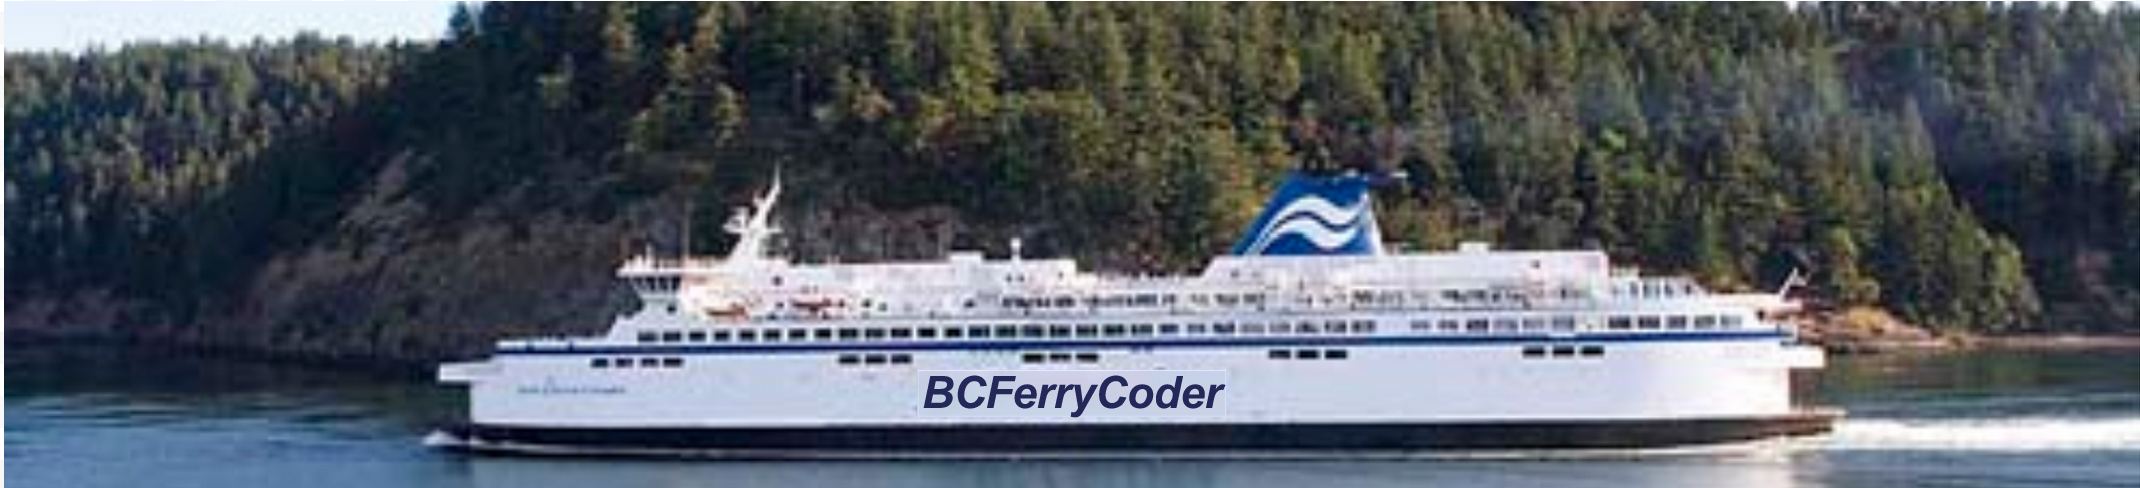
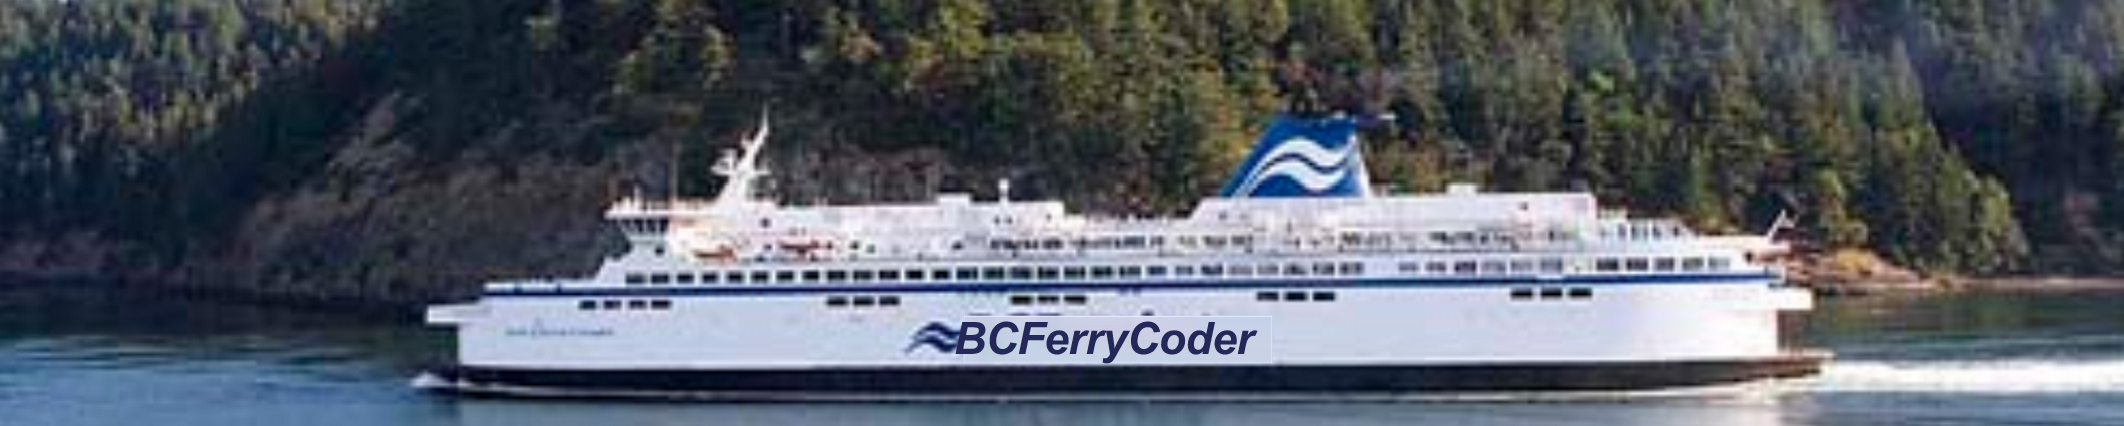
add entries, fix up header

diff --git a/_layouts/default.html b/_layouts/default.html
@@ -75,26 +75,17 @@ href="images/apple-touch-icon-114x114.png">
       <li><a href="/pages.html">Music</a></li>
       <li><a href="/tags.html"></a></li>
       <li><a href="/tags.html"></a></li>
-<li><img src="/assets/images/smallferrycoder.png" width="185"></li>
+<li style="line-height:5px;"><img style="padding-top:5px;margin-bottom:0px;padding-bottom:0px;" src="/assets/images/smallferrycoderblue.png" width="185"></li>
           </ul>
         </div>
       </div>
     </div>
 
-<div style="float:left;width:116px;height:780px;background-color:gray;" width="300" height="300" class="box">
-<span class="imagebutton"><img width="70" src="/assets/images/playbutton.png"></span>
-<span class="imagebutton"><img width="70" src="/assets/images/lightning.png"></span>
-</div>
-
-    <div class="container">
-
-      <div class="content">
-
-
-
-<div class="box" style="background-color:black;color:white;">
-Recent very Cool:
-</div>
+<div class="container">
+  <div class="content">
+    <div style="margin-top:-21px;" class="box" style="background-color:black;color:white;">
+      <img src="/assets/images/thinocean.png">
+    </div>
 
 
     <div class="container">
@@ -103,12 +94,13 @@ Recent very Cool:
         {{ content }}
       </div>
 
+
       <footer>
-        <p>&copy; {{ site.author.name }} 2012 
-          with help from <a href="http://jekyllbootstrap.com" target="_blank" title="The Definitive Jekyll Blogging Framework">Jekyll Bootstrap</a>
+        <p>&copy; {{ site.author.name }} 2012 </p>
+<!--          with help from <a href="http://jekyllbootstrap.com" target="_blank" title="The Definitive Jekyll Blogging Framework">Jekyll Bootstrap</a>
           and <a href="http://twitter.github.com/bootstrap/" target="_blank">Twitter Bootstrap</a>
           and <a href="https://github.com/isagalaev/highlight.js" target="_blank">Highlight.js</a>
-        </p>
+        </p>-->
       </footer>
 
     </div> <!-- /container -->

diff --git a/_layouts/post.html b/_layouts/post.html
@@ -2,39 +2,21 @@
 layout: default
 ---
 <div class="page-header">
-  <img style="width:300px;height:50px;" src="/assets/images/bcferrycoder.png">
-  <img style="width:300px;height:50px;" src="/assets/images/bcferrycoder.png">
-  <img style="width:300px;height:50px;" src="/assets/images/bcferrycoder.png">
+
   <h1>{{ page.title }} <small>PaaS on the Road</small></h1>
 </div>
 
 <div class="row">
   <div class="span8">
+
     {{ content }}
+
     <hr>
-    <div class="pagination">
-      <ul>
-      {% if page.previous %}
-        <li class="prev"><a href="{{ BASE_PATH }}{{ page.previous.url }}" title="{{ page.previous.title }}">&larr; Previous</a></li>
-      {% else %}
-        <li class="prev disabled"><a>&larr; Previous</a></li>
-      {% endif %}
-        <li><a href="{{ BASE_PATH }}{{ site.JB.archive_path }}">Archive</a></li>
-      {% if page.next %}
-        <li class="next"><a href="{{ BASE_PATH }}{{ page.next.url }}" title="{{ page.next.title }}">Next &rarr;</a></li>
-      {% else %}
-        <li class="next disabled"><a>Next &rarr;</a>
-      {% endif %}
-      </ul>
-    </div>
     <hr>
     {% include JB/comments %}
   </div>
   
   <div class="span4">
-    <h4>Published</h4>
-    <div class="date"><span>{{ page.date | date_to_long_string }}</span></div>
-<br />
     <h4>Recents</h4>
 
 <ul style="margin-left:0px;list-style:none;" class="posts">

diff --git a/assets/themes/twitter/css/style.css b/assets/themes/twitter/css/style.css
@@ -1,6 +1,6 @@
 /* Override some defaults */
 html, body {
-  background-color: #eee;
+  background-color: #242424;
 }
 .navbar {
   margin-bottom: 0;

diff --git a/_posts/2012-11-17-toptentechnologytango.md b/_posts/2012-11-17-toptentechnologytango.md
@@ -1,11 +1,15 @@
 ---
 layout: post
-title: "TopTenTechnologyTango"
+title: "Top Ten Technology Tango"
 description: ""
 category: 
 tags: []
 ---
 {% include JB/setup %}
+
+Inspired by Rands In Repose [Foamy Rules for
+Rabid Tools](http://www.randsinrepose.com/archives/2009/11/02/the_foamy_rules_for_rabid_tools.html);
+
 
 Based on nothing more than the shear joy I feel when I use these
 tools:
@@ -15,13 +19,48 @@ permanent spot at the top.
 
 
 
-emacs
+#### 1. emacs
 
-Ruby on Rails
+#### 2. Opa
 
-Opa
+Opa is the future of web development. I 
+[just wrote](http://blog.bcferrycoder.com) about it in fact.
 
-Intellij Idea
+#### 3. Intellij Idea
 
+I was staunchly opposed to using any sort of IDE given the first entry
+in this list. Then a famous person convinced me to "just try NetBeans"
+so i did, and I never turned back. Note this is for Java dev. It's
+unfortunate that the language requires an ide. Ruby doesn't need an
+IDE.
+	     
 
+#### 4. MTS Macros
 
+#### 5. Ruby on Rails
+
+#### 6. InterfaceBuilder
+
+#### 7. Virtual Machines -- of all descriptions
+
+#### 8. PaaS
+
+#### 9. JavaSpaces
+
+#### 10. Google Maps
+
+#### 11. IBM 370 Principals of Operation
+
+#### 12. FORTH
+
+#### 13. Kaazing
+
+#### 14. REST
+
+#### 15. JavaFX
+
+#### 16. Commodore Amigo 1000
+
+#### 17. git
+
+#### 18.  <

diff --git a/index.md b/index.md
@@ -1,8 +1,40 @@
 ---
-layout: post
+layout: default
 title: BCFerryCoder
 tagline: The Foundation for Innovation
----
 [About this blog](http://bcferrycoder.com/about/)
+---
+<div class="page-header">
 
+  <h1>{{ page.title }} <small>PaaS on the Road</small></h1>
+</div>
+
+<div class="row">
+  <div class="span8">
+
+
+    <hr>
+    <hr>
+    {% include JB/comments %}
+  </div>
+  
+  <div class="span4">
+    <h4>Recents</h4>
+
+<ul style="margin-left:0px;list-style:none;" class="posts">
+  {% for post in site.posts %}
+    <li><span><a href="{{ BASE_PATH }}{{ post.url }}">{{ post.title }}</a>&nbsp;{{ post.date | date_to_string }}</span></li>
+  {% endfor %}
+</ul>
+
+
+  {% unless page.tags == empty %}
+    <h4>Tags</h4>
+    <ul class="tag_box">
+    {% assign tags_list = page.tags %}
+    {% include JB/tags_list %}
+    </ul>
+  {% endunless %}  
+  </div>
+</div>
 
